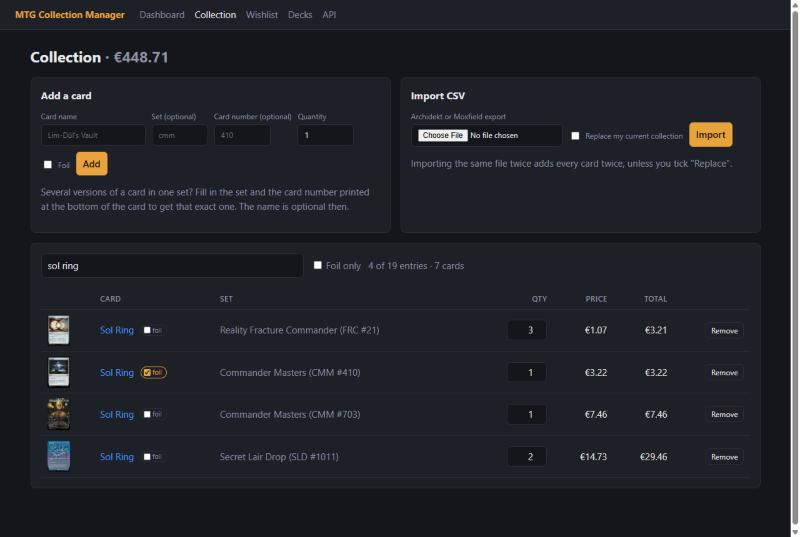
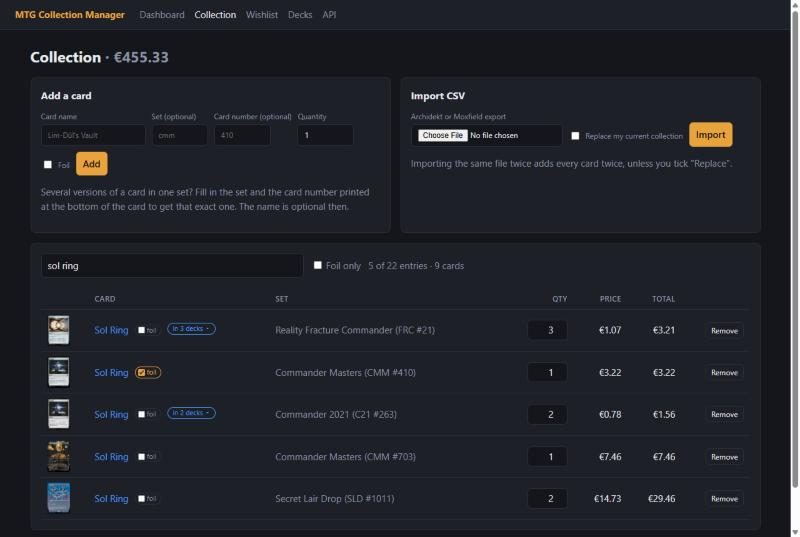
Collection: show which decks a card is in
A card whose copies are set aside for one or more saved decks carries an
"in N decks" label in the collection. Clicking it lists those decks, with
the number of copies each uses and how many are still free. Deck names
are part of the collection search, and GET /api/collection lists the
decks per card as in_decks.

Refresh the collection screenshots in the README.

diff --git a/app/templates/collection.html b/app/templates/collection.html
@@ -37,7 +37,7 @@
   {% if rows %}
   <div class="toolbar search-bar">
     <input id="collection-search" type="search" size="40" autocomplete="off" value="{{ request.query_params.get('q', '') }}"
-           placeholder="Search by card name or set…" aria-label="Search your collection">
+           placeholder="Search by card name, set or deck…" aria-label="Search your collection">
     <label class="check muted"><input id="collection-foil" type="checkbox">&nbsp;Foil only</label>
     <span id="collection-count" class="muted"></span>
   </div>
@@ -48,7 +48,8 @@
       <th class="num">Price</th><th class="num">Total</th><th></th>
     </tr>
     {% for row in rows %}
-    <tr data-search="{{ row.card.name }} {{ row.card.set_name }} {{ row.card.set_code }} #{{ row.card.collector_number or '' }}" data-foil="{{ 1 if row.entry.is_foil else 0 }}" data-qty="{{ row.entry.quantity }}">
+    {% set used = usage.get(row.entry.id, []) %}
+    <tr data-search="{{ row.card.name }} {{ row.card.set_name }} {{ row.card.set_code }} #{{ row.card.collector_number or '' }}{% for deck, count in used %} {{ deck.name }}{% endfor %}" data-foil="{{ 1 if row.entry.is_foil else 0 }}" data-qty="{{ row.entry.quantity }}">
       <td>{% if row.card.image_url %}<img class="thumb" src="{{ row.card.image_url }}" alt="" loading="lazy">{% endif %}</td>
       <td>
         <a href="/cards/{{ row.card.id }}">{{ row.card.name }}</a>
@@ -56,6 +57,18 @@
           <input type="checkbox" class="foil" data-entry="{{ row.entry.id }}" {{ 'checked' if row.entry.is_foil }}
                  aria-label="{{ row.card.name }} is foil">foil
         </label>
+        {% if used %}
+        {% set copies = used | sum(attribute=1) %}
+        <details class="in-decks">
+          <summary title="Click to see which decks use this card">in {{ used | length }} deck{{ 's' if used | length != 1 }}</summary>
+          <ul>
+            {% for deck, count in used %}
+            <li>{{ count }}× <a href="/decks/{{ deck.id }}">{{ deck.name }}</a></li>
+            {% endfor %}
+            <li class="muted">{{ row.entry.quantity - copies }} of {{ row.entry.quantity }} cop{{ 'y' if row.entry.quantity == 1 else 'ies' }} free</li>
+          </ul>
+        </details>
+        {% endif %}
       </td>
       <td class="muted">{{ row.card.set_name }} ({{ row.card.set_code | upper }}{% if row.card.collector_number %} #{{ row.card.collector_number }}{% endif %})</td>
       <td class="num">

diff --git a/app/static/style.css b/app/static/style.css
@@ -182,3 +182,13 @@ button.link:disabled { color: var(--muted); cursor: default; text-decoration: no
 .foil-toggle.on { border-color: var(--accent); color: var(--accent); }
 .foil-toggle.failed { border-color: var(--down); color: var(--down); }
 .foil-toggle input { margin: 0; padding: 0; width: 11px; height: 11px; accent-color: var(--accent); }
+
+/* Collection: which decks use a card */
+details.in-decks { display: inline-block; vertical-align: top; margin-left: 6px; font-size: 11px; }
+details.in-decks summary { display: inline-block; padding: 0 7px; border: 1px solid var(--have); border-radius: 10px; color: var(--have);
+  cursor: pointer; list-style: none; white-space: nowrap; }
+details.in-decks summary::-webkit-details-marker { display: none; }
+details.in-decks summary::after { content: " ▾"; }
+details.in-decks[open] summary::after { content: " ▴"; }
+details.in-decks ul { margin: 4px 0 2px; padding: 6px 10px; list-style: none; background: var(--bg); border: 1px solid var(--border);
+  border-radius: 6px; font-size: 12px; line-height: 1.6; }

diff --git a/tests/test_api.py b/tests/test_api.py
@@ -366,3 +366,32 @@ def test_stylesheet_link_changes_with_the_file(client):
     version = int((BASE_DIR / "static" / "style.css").stat().st_mtime)
     assert re.search(rf'href="/static/style\.css\?v={version}"', client.get("/").text)
     assert client.get(f"/static/style.css?v={version}").status_code == 200
+
+
+def test_collection_shows_which_decks_use_a_card(client):
+    sol = client.post("/api/collection", json={"name": "Sol Ring", "set_code": "cmm", "quantity": 3}).json()
+    client.post("/api/collection", json={"name": "Fire // Ice"})
+    first = client.post("/api/decks", json={"name": "Ramp & Go", "decklist": "1 Sol Ring"}).json()
+    second = client.post("/api/decks", json={"name": "Artifacts", "decklist": "1 Sol Ring"}).json()
+
+    items = {i["card"]["name"]: i for i in client.get("/api/collection").json()["items"]}
+    assert items["Sol Ring"]["in_decks"] == [
+        {"id": first["id"], "name": "Ramp & Go", "quantity": 1},
+        {"id": second["id"], "name": "Artifacts", "quantity": 1},
+    ]
+    assert items["Fire // Ice"]["in_decks"] == []
+
+    page = client.get("/collection").text
+    assert page.count('<details class="in-decks">') == 1  # only the card that is in a deck gets the label
+    assert "in 2 decks</summary>" in page
+    assert f'<a href="/decks/{first["id"]}">Ramp &amp; Go</a>' in page and f'<a href="/decks/{second["id"]}">Artifacts</a>' in page
+    assert "1 of 3 copies free" in page
+    assert "Sol Ring Set CMM cmm #1 Ramp &amp; Go Artifacts" in page  # deck names are searchable too
+
+    # Taking the card out of a deck, or deleting the deck, updates the label.
+    entry_id = second["cards"][0]["entry_id"]
+    client.put(f"/api/decks/{second['id']}/cards/{entry_id}/assigned", json={"assigned": False})
+    client.delete(f"/api/decks/{first['id']}")
+    assert '<details class="in-decks">' not in client.get("/collection").text
+    assert client.get("/api/collection").json()["items"][1]["in_decks"] == []
+    assert sol["in_decks"] == []  # a single entry response does not list decks

diff --git a/app/routers/api.py b/app/routers/api.py
@@ -26,6 +26,7 @@ from app.schemas import (
     DeckOut,
     DeckPrintingIn,
     DeckSaveIn,
+    DeckUseOut,
     ImportOut,
     PrintingOut,
     PurchaseIn,
@@ -58,10 +59,15 @@ def summary(session: Session = Depends(get_session)):
 def list_collection(q: str | None = None, session: Session = Depends(get_session)):
     """The collection; `q` filters on card name, set name or set code (every word must match)."""
     rows = collection.search_rows(collection.collection_rows(session), q)
-    return CollectionOut(
-        total_value=collection.collection_value(rows),
-        items=[CollectionItemOut.from_row(row) for row in rows],
-    )
+    usage = decks.deck_usage(session)
+    items = []
+    for row in rows:
+        item = CollectionItemOut.from_row(row)
+        item.in_decks = [
+            DeckUseOut(id=deck.id, name=deck.name, quantity=copies) for deck, copies in usage.get(row.entry.id, [])
+        ]
+        items.append(item)
+    return CollectionOut(total_value=collection.collection_value(rows), items=items)
 
 
 @router.post("/collection", response_model=CollectionItemOut, status_code=201)

diff --git a/app/services/decks.py b/app/services/decks.py
@@ -426,6 +426,21 @@ class _CardPool:
             )
         return sorted(rows, key=lambda row: name_key(row.name))
 
+def deck_usage(session: Session) -> dict[int, list[tuple[Deck, int]]]:
+    """Which saved decks use the copies of each collection entry: {collection entry id: [(deck, copies)]}."""
+    pool = _CardPool(session)
+    usage: dict[int, list[tuple[Deck, int]]] = {}
+    for deck in pool.decks:
+        per_entry: dict[int, int] = {}
+        for claimed in pool.claims[deck.id].values():
+            for entry_id, copies in claimed.items():
+                per_entry[entry_id] = per_entry.get(entry_id, 0) + copies
+        for entry_id, copies in per_entry.items():
+            if copies:
+                usage.setdefault(entry_id, []).append((deck, copies))
+    return usage
+
+
 def check_deck(session: Session, cards: list[DeckCard], deck_id: int | None = None) -> list[DeckRow]:
     """Compare a deck with the collection by card name (any printing counts).
 

diff --git a/app/schemas.py b/app/schemas.py
@@ -33,6 +33,12 @@ class CollectionUpdate(BaseModel):
     is_foil: bool | None = None
 
 
+class DeckUseOut(BaseModel):
+    id: int
+    name: str
+    quantity: int  # copies of this collection entry the deck uses
+
+
 class CollectionItemOut(BaseModel):
     id: int
     card: CardOut
@@ -43,6 +49,8 @@ class CollectionItemOut(BaseModel):
     total_price: float | None
     # Set code when the printing has no price of its own and another printing's price is used.
     price_from_set: str | None = None
+    # Saved decks these copies are set aside for (filled in by the collection list).
+    in_decks: list[DeckUseOut] = []
 
     @classmethod
     def from_row(cls, row: CollectionRow) -> "CollectionItemOut":

diff --git a/app/routers/pages.py b/app/routers/pages.py
@@ -90,7 +90,8 @@ def card_page(card_id: int, request: Request, session: Session = Depends(get_ses
 @router.get("/collection")
 def collection_page(request: Request, session: Session = Depends(get_session)):
     rows = collection.collection_rows(session)
-    return render(request, "collection.html", rows=rows, total=collection.collection_value(rows))
+    return render(request, "collection.html", rows=rows, total=collection.collection_value(rows),
+                  usage=decks.deck_usage(session))
 
 
 @router.post("/collection/add")

diff --git a/README.md b/README.md
@@ -25,7 +25,9 @@ price.
 
 ![Remove all asks for a second click before it empties the wishlist](docs/wishlist-remove-all.jpg)
 
-![Searching the collection: four versions of Sol Ring, told apart by set and card number](docs/collection-search.jpg)
+![Searching the collection: five versions of Sol Ring, told apart by set and card number](docs/collection-search.jpg)
+
+![Which decks a card is in: the label opened for two Sol Ring printings](docs/collection-decks.jpg)
 
 ![Printings without a price of their own borrow one from another printing, marked ≈ SET (Dragon Egg and Fellwar Stone)](docs/collection-borrowed.jpg)
 
@@ -56,7 +58,8 @@ price.
 - CSV import with automatic format detection (Archidekt, Moxfield, or any CSV with a quantity and name column); adds to your collection or replaces it
 - Change the quantity of a card in place, without removing and re-adding it
 - Tick or untick "foil" on a card you already have; price and totals follow, and it merges with the same card in the other finish
-- Instant search in the collection on card name or set (accents and word order do not matter), with a foil-only filter
+- See which decks a card is in: cards that are set aside for a deck carry an "in N decks" label that opens the list of decks, and how many copies are still free
+- Instant search in the collection on card name, set or deck (accents and word order do not matter), with a foil-only filter
 - A printing without a price borrows the price of the cheapest printing with the same name, marked "≈ SET"
 - Daily price snapshots, total value over time, top 10 most valuable cards, weekly risers and fallers
 - Price history chart per card
